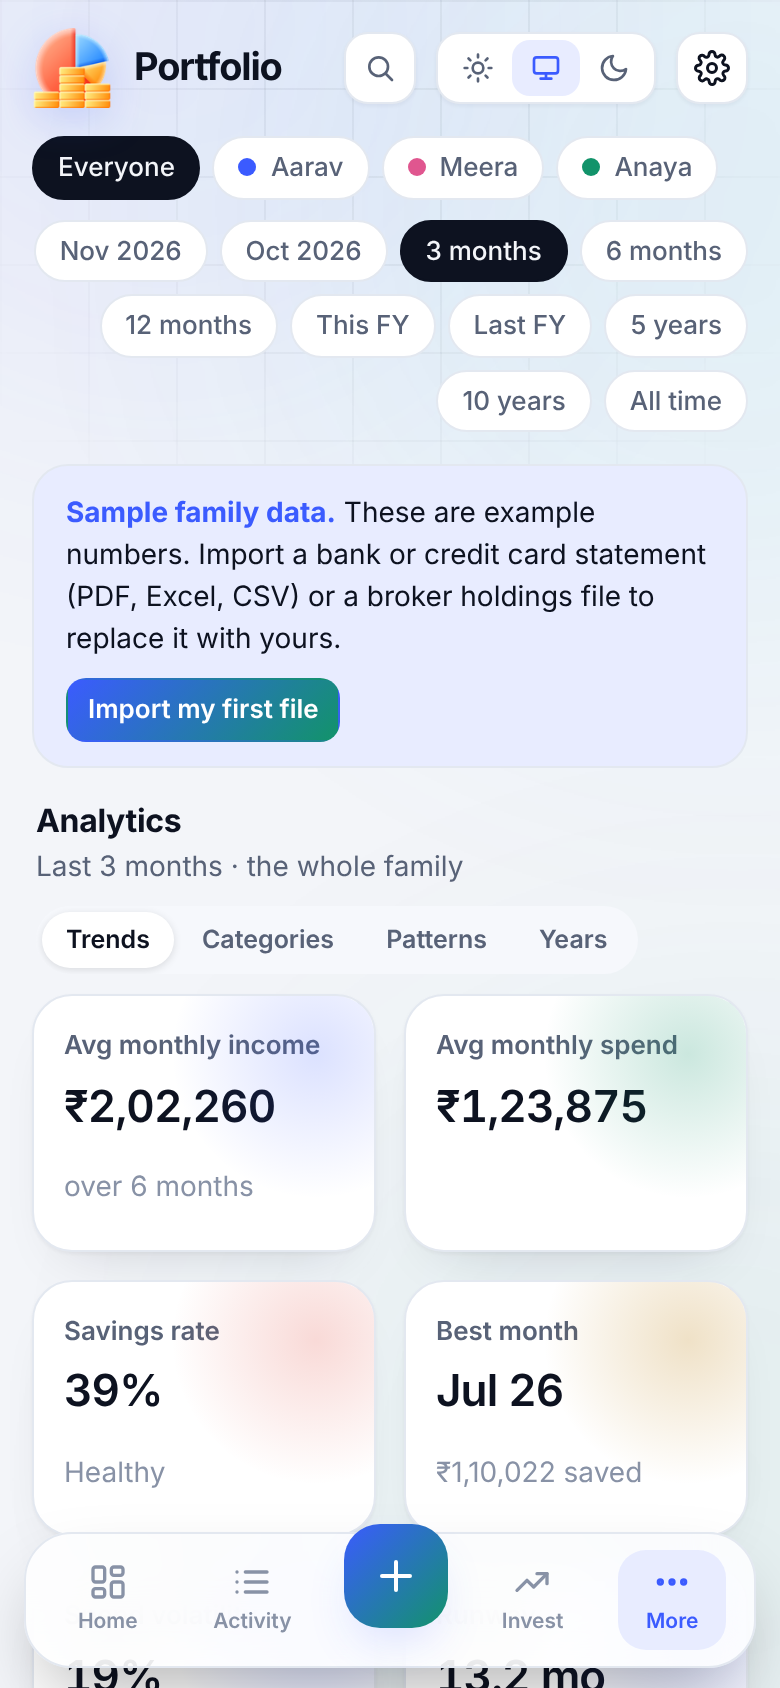
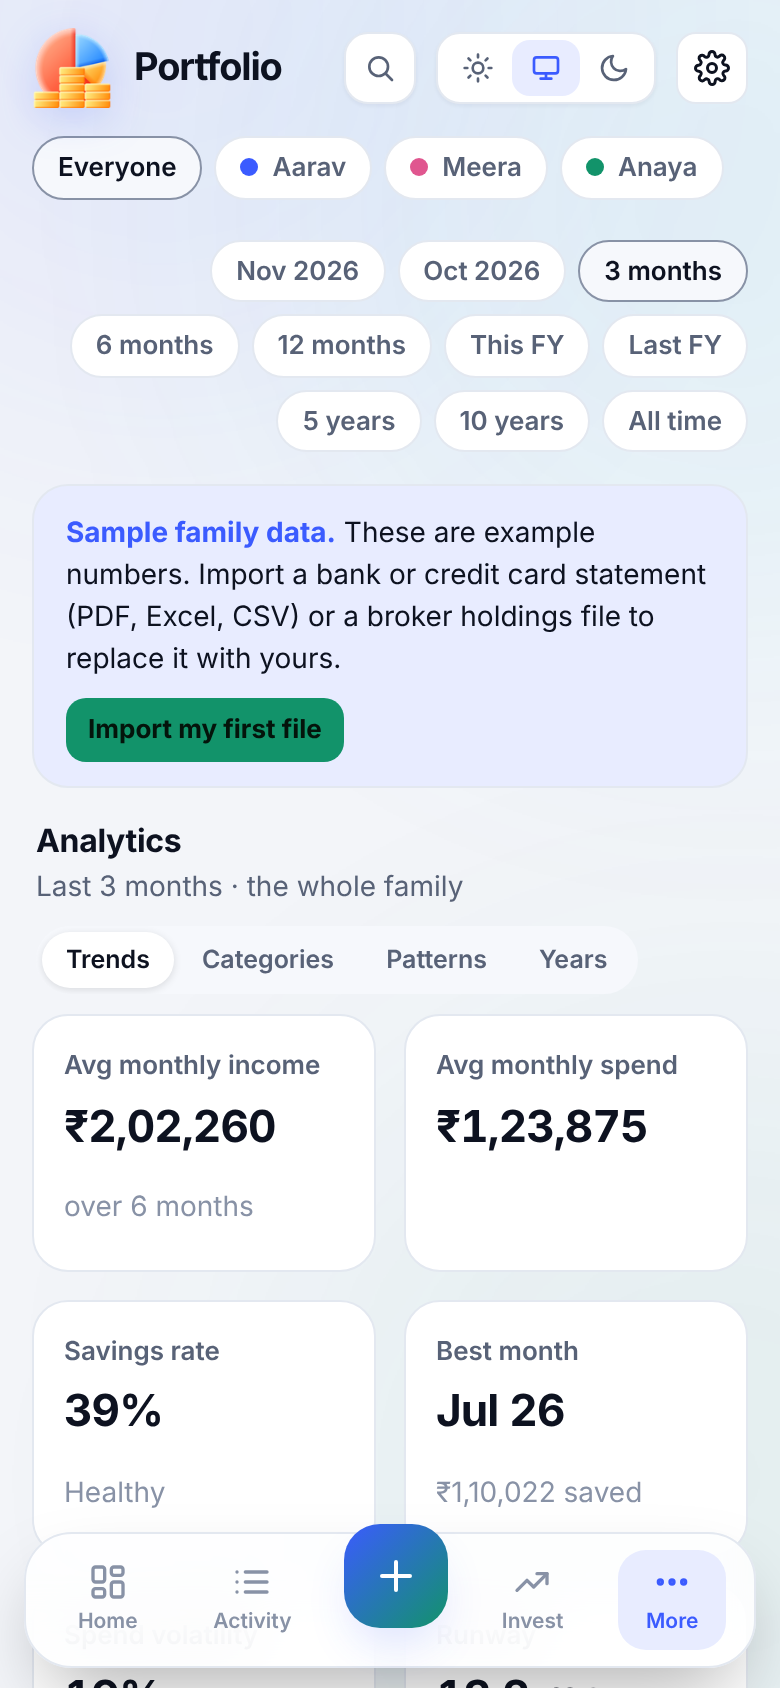
Left sidebar, flat cards, solid green primary button
Claude-Session: https://claude.ai/code/session_01HCoMPc6FfDdFnEnHpuawrr

diff --git a/css/app.css b/css/app.css
@@ -292,3 +292,38 @@ kbd{font:500 11px var(--mono);padding:2px 6px;border-radius:6px;border:1px solid
 .ychip{border:1px solid var(--line);background:var(--surface);border-radius:999px;padding:3px 10px;font-size:12px;font-weight:600;color:var(--fg);display:inline-flex;align-items:center;gap:6px}.ychip i{margin:0}.ychip.off{opacity:.4;text-decoration:line-through}
 @media(max-width:700px){.sec{flex-wrap:wrap}.segc{max-width:100%;overflow-x:auto;scrollbar-width:none}.segc button{white-space:nowrap}}
 #upd{position:fixed;left:50%;bottom:calc(88px + env(safe-area-inset-bottom));transform:translateX(-50%);z-index:60;display:flex;align-items:center;gap:10px;background:var(--surface);border:1px solid var(--line);box-shadow:var(--shadow),0 18px 40px -12px rgba(0,0,0,.4);border-radius:999px;padding:8px 10px 8px 18px;font-size:13.5px;animation:pop .5s cubic-bezier(.2,.8,.2,1)}@media(min-width:900px){#upd{bottom:24px}}
+
+/* ---- v0.0.2 look: flat cards, solid green primary, left sidebar on wide screens ---- */
+body{background-image:none}
+.card{border-radius:18px;box-shadow:none}
+.card::before{display:none}
+.btn{box-shadow:none;border-radius:10px}
+.btn.primary{background:var(--in);color:#04140b;border-color:transparent;font-weight:650}
+.btn.primary:hover{filter:brightness(1.08);border-color:transparent}
+.shine::after{display:none}
+.pill{font-weight:550}
+.pill[aria-pressed=true]{background:var(--surface-2);color:var(--fg);border-color:var(--faint)}
+.card h3,.kpi .lbl{text-transform:none}
+.sidebrand{display:none}
+@media(min-width:1100px){
+  body{overflow-x:hidden}
+  .aurora{display:none}
+  .shell{max-width:none;padding:0 28px 56px 288px;position:relative}
+  .tabs{position:fixed;left:0;top:0;bottom:0;width:260px;margin:0;padding:18px 14px;border:0;border-right:1px solid var(--line);border-radius:0;background:var(--surface);flex-direction:column;gap:2px;overflow-y:auto;max-width:none;z-index:5}
+  .tabs .ind{display:none}
+  .tabs .sidebrand{display:flex;margin:2px 8px 18px;align-items:center}
+  .tabs button{width:100%;justify-content:flex-start;padding:10px 12px;border-radius:10px;font-size:14.5px;gap:12px}
+  .tabs button:hover{background:var(--surface-2);color:var(--fg)}
+  .tabs button[aria-selected=true]{background:var(--accent-soft);color:var(--fg);box-shadow:inset 3px 0 0 var(--accent)}
+  .tabs button[aria-selected=true] svg{color:var(--accent)}
+  .top{position:sticky;top:0;z-index:4;background:var(--bg);margin:0 -28px 18px;padding:14px 28px;border-bottom:1px solid var(--line)}
+  .top .brand{display:none}
+  .shell>.bar{margin-top:6px}
+  main{max-width:1280px}
+}
+.kpi::after,body::before{display:none}
+.beam{border:1px solid var(--line)!important;background:var(--surface)!important;animation:none!important}
+.hero h1,.hero h1 *{background:none!important;-webkit-text-fill-color:currentColor!important;color:var(--fg)!important}
+.hero h1{font-size:clamp(26px,3.4vw,34px)}
+.kpi .val{font-weight:650}
+.card .foot{flex-wrap:wrap}

diff --git a/js/app.js b/js/app.js
@@ -276,7 +276,7 @@ const TABS=[['overview','Overview',ICON.overview],['tx','Transactions',ICON.tx],
 function moveInd(){const tb=$('#tabs'),b=tb.querySelector('[aria-selected=true]'),i=tb.querySelector('.ind');if(b&&i){i.style.left=b.offsetLeft+'px';i.style.width=b.offsetWidth+'px'}}
 function renderChrome(){
   const tb=$('#tabs');
-  if(!tb.dataset.ready){tb.innerHTML=TABS.map(([k,l,ic])=>`<button role="tab" data-act="view" data-v="${k}">${svg(ic,16)}<span>${l}</span></button>`).join('')+'<i class="ind"></i>';tb.dataset.ready='1'}
+  if(!tb.dataset.ready){tb.innerHTML=TABS.map(([k,l,ic])=>`<button role="tab" data-act="view" data-v="${k}">${svg(ic,16)}<span>${l}</span></button>`).join('')+'<i class="ind"></i>';tb.dataset.ready='1';const br=document.querySelector('.top .brand');if(br){const c=br.cloneNode(true);c.classList.add('sidebrand');tb.prepend(c)}}
   tb.querySelectorAll('button').forEach(b=>b.setAttribute('aria-selected',String(b.dataset.v===S.view)));moveInd();
   const dk=(k,l)=>`<button class="${S.view===k?'on':''}" data-act="view" data-v="${k}" aria-label="${l}">${svg(ICON[k],20)}<span>${l}</span></button>`;
   $('#dock').innerHTML=dk('overview','Home')+dk('tx','Activity')+`<button class="fab" data-act="fab" aria-label="Add or import">${svg(ICON.plus,24)}</button>`+dk('inv','Invest')+`<button data-act="more" class="${['cards','goals','bud','rec','up','vault','ana'].includes(S.view)?'on':''}" aria-label="More">${svg(ICON.dots,20)}<span>More</span></button>`;
